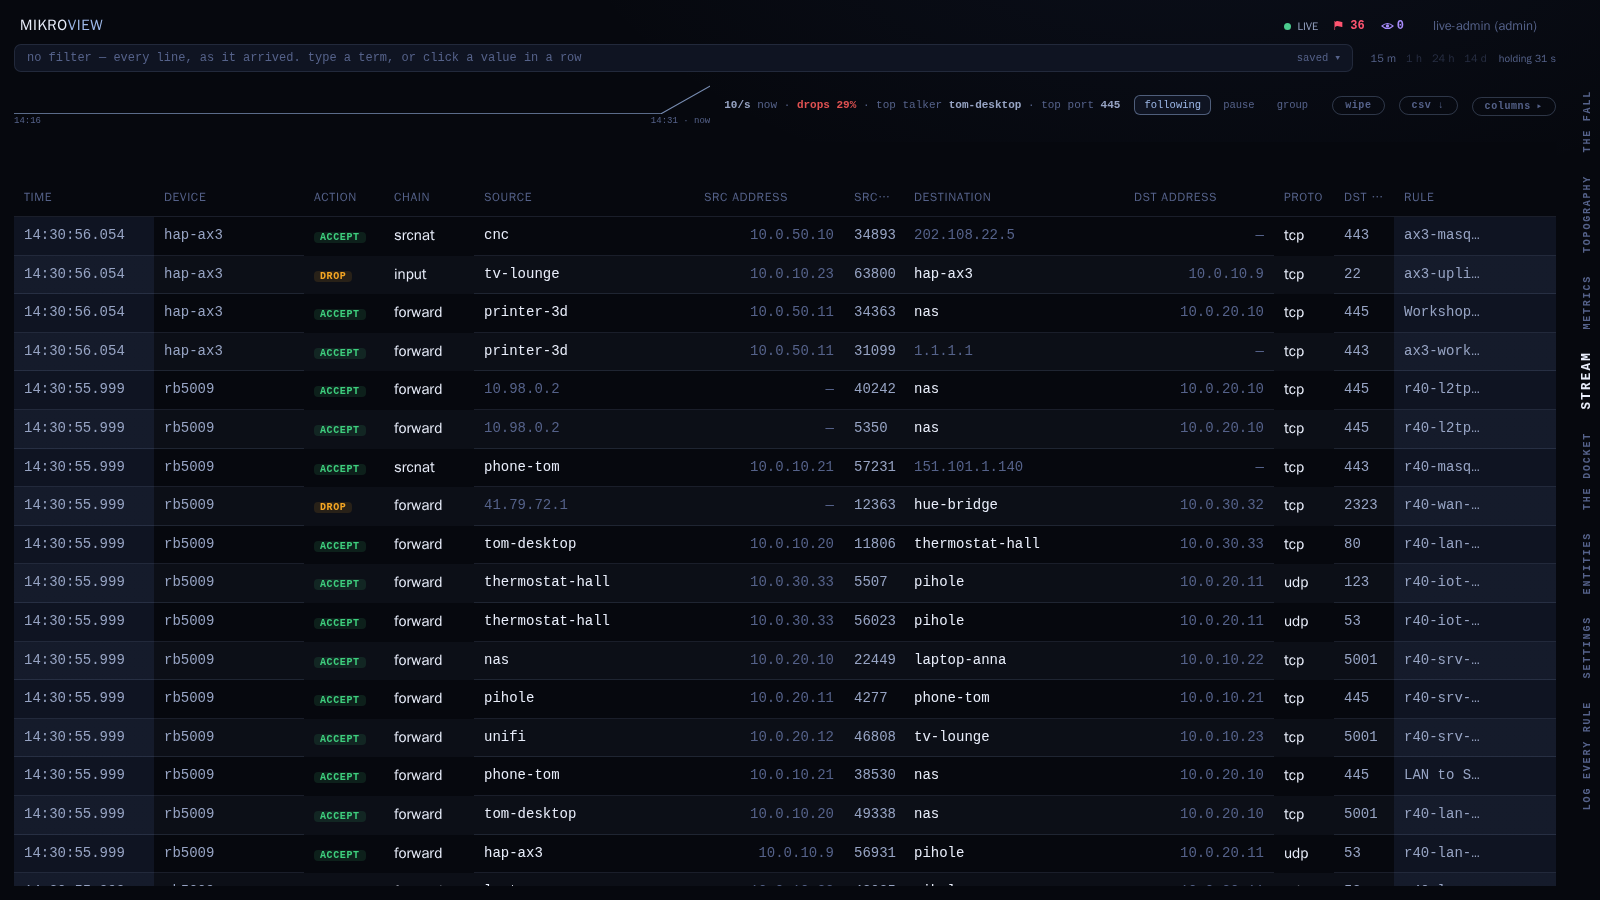
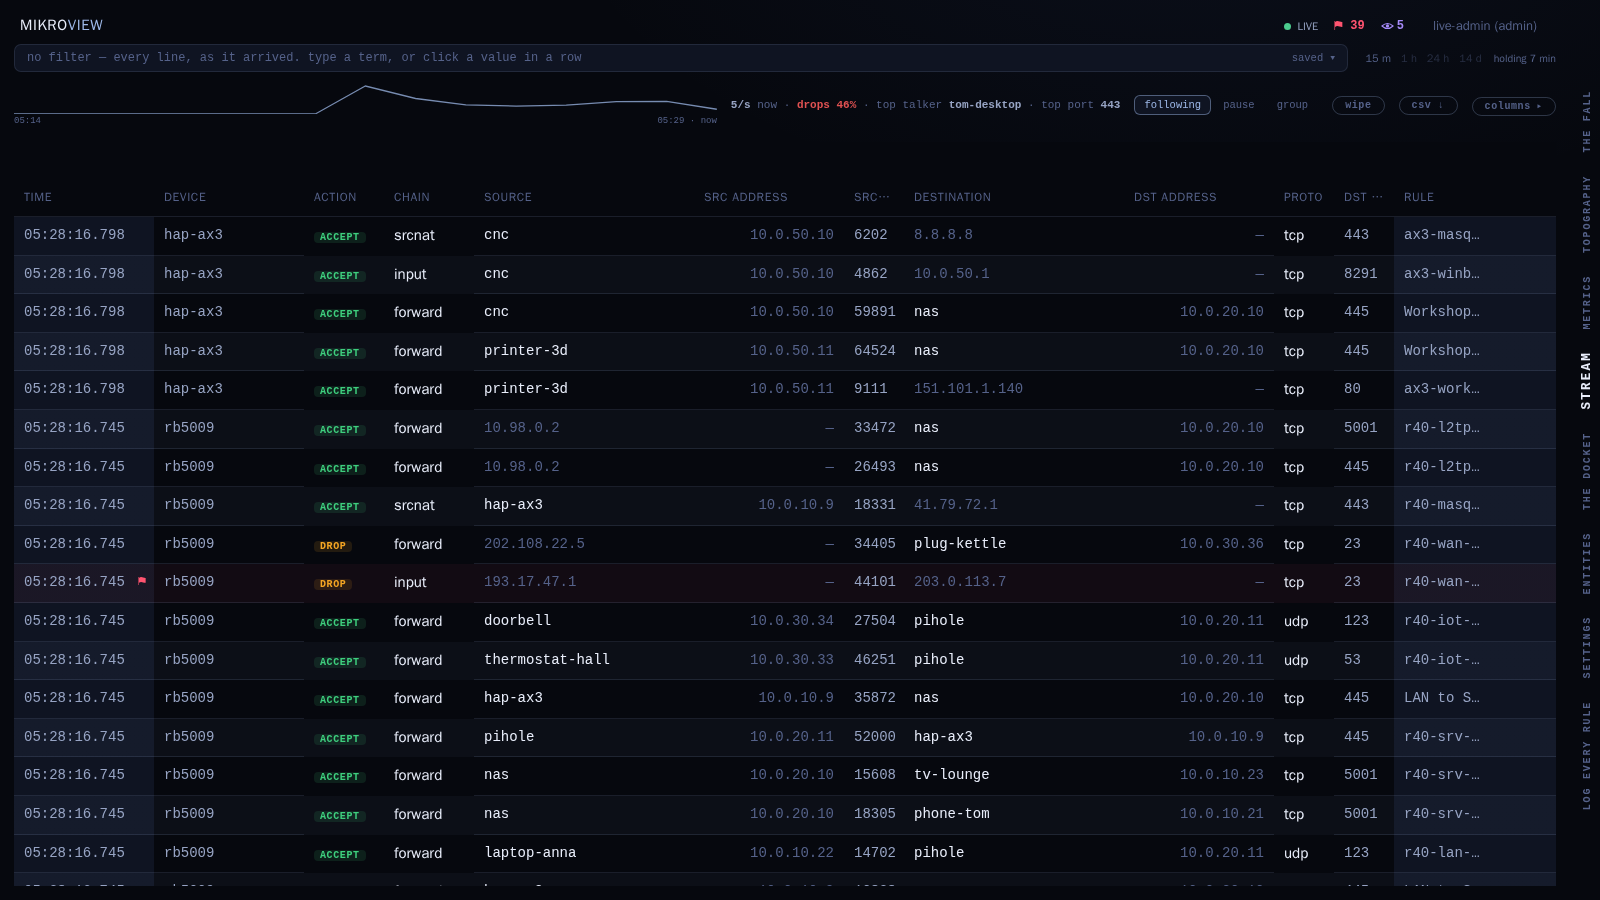
Show both ways of adding a router, and recapture two stale screenshots
docs/routeros-setup.md had two `<!-- shot: ... -->` markers where images
were meant to go and never did, so nothing showed either path a router
is added by. Both are now real captures from a running instance: the
wizard's ledger at step 1, which is how the first router is enrolled,
and the Entities routers row with its "+ add a router" berth, which is
how every later one is.

stream-dark.png and engine-room-people-door.png no longer matched what
the app draws, so both are recaptured from the same instance.

check-release-surfaces.sh gains a screenshot_sources() entry per new
image, without which its freshness check fails them as unmapped.

diff --git a/docs/routeros-setup.md b/docs/routeros-setup.md
@@ -20,7 +20,7 @@
 > if you prefer working from documentation, if you are scripting a fleet,
 > or when you want the reasoning behind a step.
 
-<!-- shot: the wizard's ledger opened at step 1 -->
+![The wizard's ledger opened at step 1: the seven steps down the left, "Trust the certificate" open beside them](screenshots/setup-wizard-ledger.png)
 
 MikroView never talks to RouterOS's API and never holds a RouterOS
 credential. Instead, RouterOS pushes to MikroView: firewall log lines
@@ -1177,7 +1177,7 @@ for the fleet, so everything below is there; the standalone Fleet screen
 a read-only account sees carries the same router cards without the
 actions.
 
-<!-- shot: the Entities routers row, showing the + add a router berth -->
+![The Entities routers row: a card per router already enrolled, and "+ add a router" as the last berth](screenshots/entities-add-a-router.png)
 
 Each router's card also carries **Re-enrol…**, which opens the ledger at
 **Send logs** with a fresh token for that router — for a router you have
